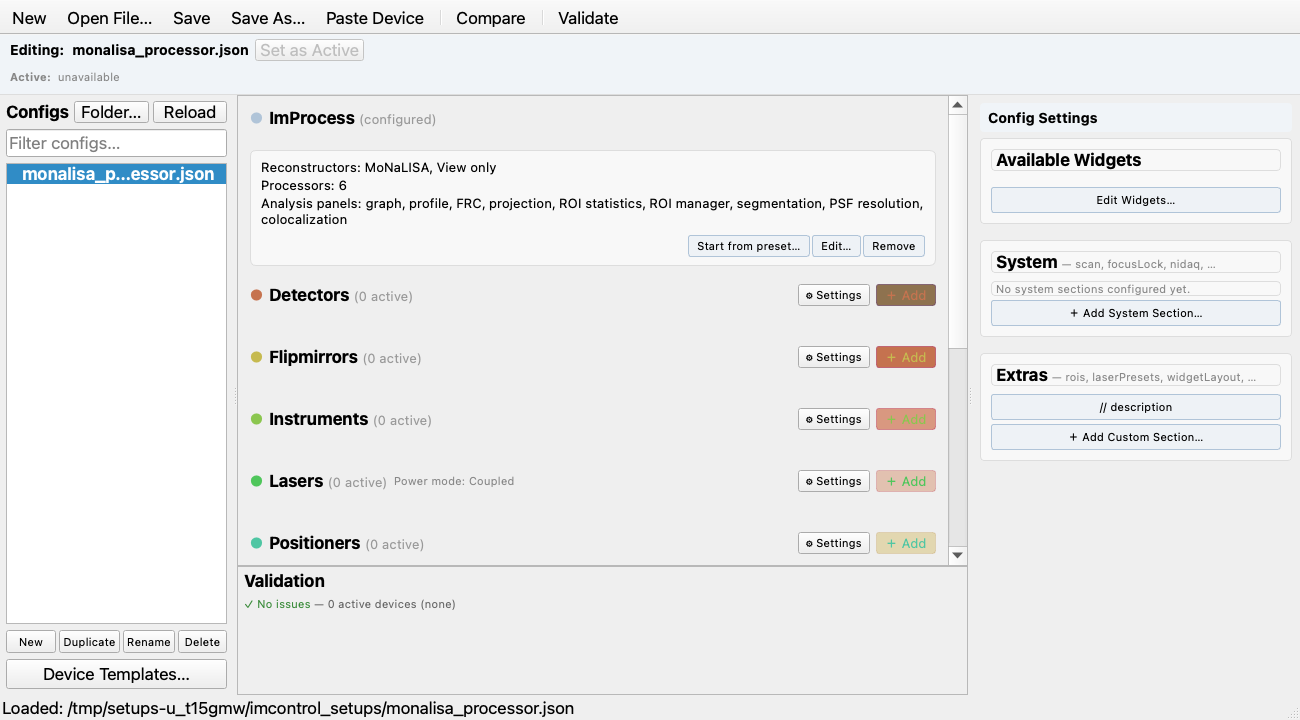
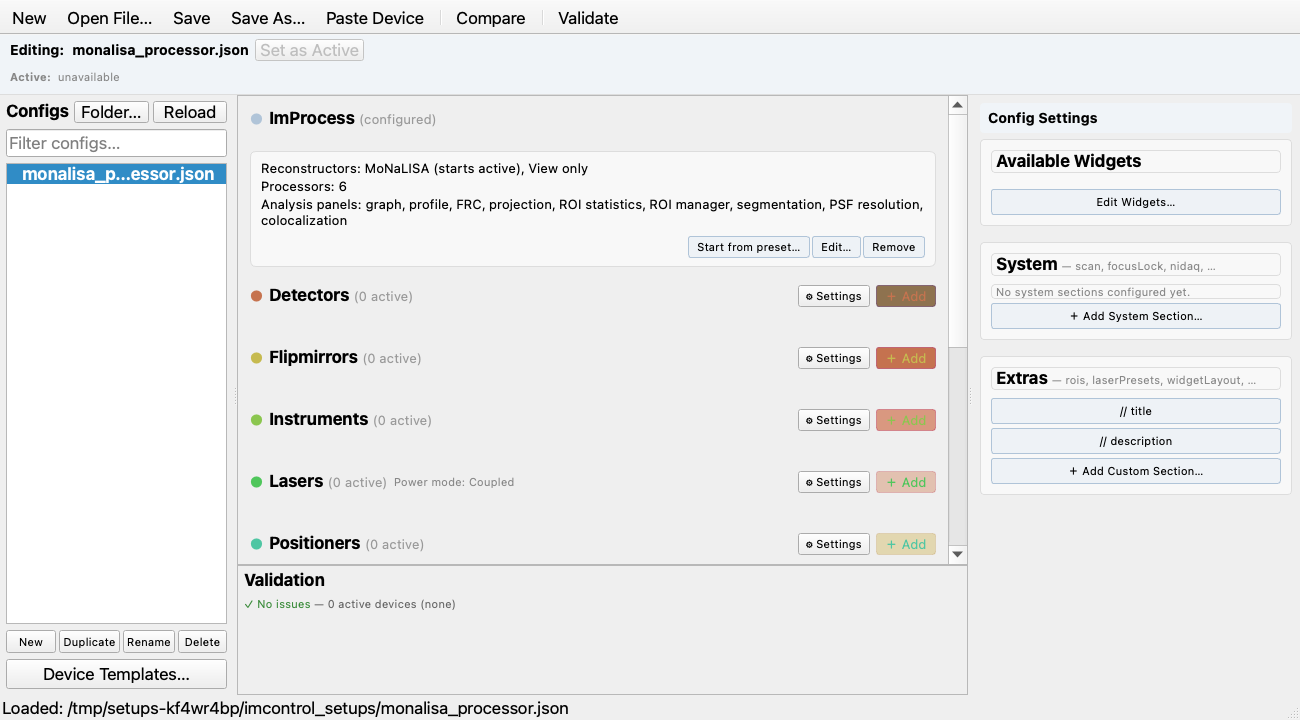
docs: the reconstructor ImProcess starts with, how a setup becomes a preset, and a docs audit
Documents the Starts with combo, the order rule (ImProcess opens on the first
reconstructor listed), the starts-active marking on the card and in the
preset picker, and how a processor-only setup becomes one of the ten presets
(including tools/update_user_defaults_history.py). The audit also fixes: the
changelog's two ImProcess entries merged into one, the System-section tab
order and the required keys of autofocus and microscopeStand, the napari
endpoints' stale "Plugins page", and the reconstructors reference row. The
dialog, canvas and preset-picker screenshots are regenerated.

diff --git a/docs/changelog.rst b/docs/changelog.rst
@@ -25,11 +25,11 @@ Unreleased
   Apply refuses until you fill them in.  The ``focusLock`` and ``autofocus``
   **Update freq** was labelled milliseconds while the code reads hertz, and
   the tiling **Default pattern** was a free-text box; it is a drop-down now.
-  Separately, a ``reconstructors`` or ``processors`` list naming an id that is not here (a
-  drop-in plugin that lives on another computer, a typo) raised a ``KeyError``
-  and ImProcess did not open; the id is now skipped with one logged warning,
-  ImProcess starts with the rest, and if none of the listed reconstructors is
-  known it registers ``view-only``.  A setup that lists only ``processors``
+  Separately, a ``reconstructors`` or ``processors`` list naming an id that
+  is not here (a drop-in plugin that lives on another computer, a typo) raised
+  a ``KeyError`` and ImProcess did not open; the id is now skipped with one
+  logged warning, ImProcess starts with the rest, and if none of the listed
+  reconstructors is known it registers ``view-only``.  A setup that lists only ``processors``
   now gets ``view-only`` (not ``monalisa``) as its reconstructor, the same as
   with no block at all.
 
@@ -49,8 +49,7 @@ Unreleased
 
 **New Features**
 
-- **ImProcess settings in the config editor.** The setup file's ``processing`` block is now a section of its own on the editor's canvas, always shown and first for a processor-only setup, with a summary card and **Configure…** / **Edit…**, **Start from preset…** and **Remove**.  The dialog has one page per group of options (Reconstructors, Processors, Startup layout, Analysis panels, Localization viewer, Live mode, napari plugins), every option with its explanation in plain view, a read-only **Drop-in plugins** page with a **Rescan** button, a **Custom** page that keeps the keys the editor does not know, and a **Set on this computer** page that says where the Fiji location, the image display and the default folders are set (they are per computer, in ``improcess_options.json``, not in the setup).  **Start from preset…** copies the block of one of the shipped processor-only setups.  Every key ImProcess reads is offered, including ``liveStallTimeoutS``, ``liveViewerUpdateIntervalS``, ``live_display_in_imcontrol`` and the napari endpoints (a JSON box that is checked when you apply); the validation panel flags an unknown plugin id as an error and a drop-in id listed in the setup as a warning.  The key reference is in the setup reference's ``processing`` section (:ref:`config-editor-improcess`).
-- **ImProcess dialog in the config editor: reconstructors and processors first, and a readable preset picker.** The reconstructors and the processors, the main components of ImProcess, are now the dialog's first two pages (it opens on Reconstructors) instead of one **Plugins** page; **Drop-in plugins** follows them and the napari endpoints have a **napari plugins** page.  Every option is a row with its name, its id muted and a one-line description from the registry.  **Start from preset…** lists the shipped setups by title and, for the selected one, says what it is for, which reconstructors and processors it registers by name, what opens and what is hidden at startup, instead of printing its JSON.  Five more processor-only presets ship: ``smlm_processor``, ``bead_psf_processor``, ``restoration_processor``, ``timelapse_processor`` and ``tiling_mosaic_processor``; the five existing ones gained a ``// title`` and a shorter description.  Changing the set of shipped defaults is picked up by the existing user-defaults sync, so an unedited copy in ``ImSwitchConfig`` is replaced and an edited one is kept.
+- **ImProcess settings in the config editor, with a choice of the reconstructor it starts with and a readable preset picker.** The setup file's ``processing`` block is now a section of its own on the editor's canvas, always shown and first for a processor-only setup, with a summary card (the reconstructors by name, the first marked *starts active*) and **Configure…** / **Edit…**, **Start from preset…** and **Remove**.  The dialog opens on its two main components, **Reconstructors** and **Processors**, each option a row with its name, its id muted and a one-line description from the registry; then come **Drop-in plugins** (read-only, with a **Rescan** button), **Startup layout**, **Analysis panels**, **Localization viewer**, **Live mode**, **napari plugins**, **Custom** (keeps the keys the editor does not know) and **Set on this computer** (says where the Fiji location, the image display and the default folders are set: they are per computer, in ``improcess_options.json``, not in the setup).  Every key ImProcess reads is offered, including ``liveStallTimeoutS``, ``liveViewerUpdateIntervalS``, ``live_display_in_imcontrol`` and the napari endpoints (a JSON box that is checked when you apply), and the validation panel flags an unknown plugin id as an error and a drop-in id listed in the setup as a warning.  **Starts with**, above the reconstructor rows, chooses the reconstruction ImProcess has selected when it opens; ImProcess opens on the first reconstructor the setup lists, so the editor writes the chosen one first, ticking another keeps the file's order and adds it after, and there is no new setup key.  **Start from preset…** lists the ten shipped processor-only setups by title and, for the selected one, says what it is for, which reconstructors (the first marked *starts active*) and processors it registers by name, what opens and what stays hidden at startup, instead of printing its JSON, and **Use preset** copies its block.  Five of the ten are new (``smlm_processor``, ``bead_psf_processor``, ``restoration_processor``, ``timelapse_processor`` and ``tiling_mosaic_processor``); the five existing ones gained a ``// title`` and a shorter description.  The unedited copies of the changed presets in ``ImSwitchConfig`` are replaced by the existing user-defaults sync and edited ones are kept.  The key reference is in the setup reference's ``processing`` section (:ref:`config-editor-improcess`).
 - **Device reconnect 2.0: reconnectable by default, and no silent stand-ins.** Reconnecting a device in **Hardware → Hardware status** used to be refused whenever that device shared its serial port with another — the usual rig case — and worked only for the twelve managers that had written their own reconnect. Now a reconnect of any device on a port that can be reopened in place (``RS232Manager``, and the ESP32 / GRBL / SQUID port managers) reopens the port once and re-initialises every device on it, in order, each ending in its safe state, verified (lasers dark, shutters closed), and names any device that did not come back. Devices on such a port need no reconnect code of their own; MPB and AA AOTF repeat their startup exchange after one (they used to stay silent forever once startup had failed, because a "mock forever" flag was set once and never cleared). Managers that open their own driver do so through a *backend holder* (``_installBackend``) and get reconnect — and connect / disconnect for a device declared ``transient`` — from one template; Kinesis stages and rotators, Standa mounts, the Teensy pulse generator and the ThorCam, Photometrics, Allied Vision and PiCam cameras are on it. The rule behind it: **a device's mode comes from the setup file and never changes at runtime.** A real device that cannot be opened is left *not connected* — the error in Hardware status, its panel row greyed with the reason, every command refused with ``DeviceNotConnectedError``, scans and recordings refusing it by name — instead of being quietly replaced by a simulation that accepts commands; ``useMockOnFailure: true`` keeps the old fallback per device, and the configured mocks (``Mock*Manager``, ``MOCK_`` serials, ``simulation: true``, the hardware-free setups) are untouched. The one exception is cameras, which keep a mock until reconnected, because a detector needs its sensor size at construction and only the camera knows it. ``transient`` / ``connectOnStartup`` can now be set on any device, not only instruments. A **Check** button beside Reconnect asks a device whether it is still there without replacing anything (a cheap identity query; MPB, Kinesis, Standa, ThorCam, Teensy, CoolLED, Cobolt), and is allowed during a scan. The Positioner panel now refreshes a reconnected stage like every other panel. Design, inventory and what is still bespoke: ``docs/design/plans/device-reconnect-2.0.md``.
 - **COMET drift correction** for SMLM localization results, as the ``smlm-drift-comet`` processor over the optional ``comet-smlm`` package (``pip install comet-smlm``, or the ``comet`` extra). COMET estimates one drift vector per time window by maximising the overlap of every pair of localizations across windows and interpolates the windows to a per-frame curve that it subtracts from x, y *and z*; the built-in ``smlm-drift`` stays as the quick lateral-only cross-correlation that needs nothing installed. It runs on an NVIDIA GPU (numba-cuda), PyTorch (COMET's own ``[torch]`` extra) or a numba-compiled CPU kernel, and ``auto`` takes the fastest COMET finds; a named backend that is not available is refused with the ones that are. The panel asks for the window (500 localizations per window by default; frames per window and a window count are the other modes), the largest drift expected and the backend; the kernel width the refinement stops at is fixed at 10 nm, the initial width stays COMET's rule (a third of the maximum drift) and the other ``comet_run_kd`` settings stay at COMET's defaults. The panel's button first says **Estimate pairs** and runs only COMET's own safety check, the exact number of pairs within the maximum drift, with a warning above 500 million (slow, may run out of memory); then it says **Run COMET**, and that run streams the windows, the pairs found, each optimizer step and every 25th evaluation as it goes (a workflow runs in one go, ``stage: run``). **Cancel** lands at COMET's next progress report and leaves the input untouched. The result is the same drift-corrected localization result the built-in correction produces (its drift trace gains a Z series on a 3D table), with the backend, window and pair counts, accepted kernel width, timings and package version in its metadata. The package is looked for the moment the panel opens: without it the panel says so, shows the install line, keeps its controls and Run off and offers **Check again** for after a ``pip install`` in the running session; a workflow step is refused before it starts and a headless run fails with the same message. See :ref:`improcess-comet-drift`.
 - **SMLM filter by any property, histogram-guided.** The ``smlm-filter`` panel now offers the properties the current table has values in (frame, position, PSF sigmas, photons, precisions), draws the chosen one's histogram, and places a band on it with two spin boxes that are also the shaded region's draggable edges; *Mode* keeps the localizations inside the band (band-pass) or drops them (band-stop), a count line says what the band keeps before anything runs, and **Apply filter** publishes the filtered table, which the panel then follows so a second property is filtered by applying again. A *Copy* box, on by default, decides where the table goes: the first filter makes a new result, the box then turns itself off and the following filters replace that copy in place rather than leaving one result per step (it turns back on when another result is selected); the generic processor panel gained the in-place publication path for this (``sigResultReplaced``). The parameter contract is ``property``/``mode``/``lower``/``upper`` (``params_version`` 2); a recorded run of the old photons/sigma/frame form that bounded one property replays, one that bounded several is refused with the way to say it now. The histogram's bins are derived from the data instead of a fixed count (the narrower of the Freedman-Diaconis and Sturges rules, limited to the pixels the plot has, and one bin per number for a whole-number column such as the frame), and a band-stop with neither threshold set is refused instead of silently returning an empty table.

diff --git a/docs/imcontrol-setups.rst b/docs/imcontrol-setups.rst
@@ -101,9 +101,10 @@ ImProcess block has its own place on the canvas
 as raw JSON.
 
 The dialog has one tab per group of options, each option with its explanation
-as a tooltip.  ``focusLock`` has the tabs Basic, Devices, Crop, Control and
-Reacquire; ``tiling`` has Basic, Devices, Acquisition, Saving and Mosaic.
-Choices the code defines are drop-downs: the tiling **Default pattern**
+as a tooltip.  ``focusLock`` has the tabs Devices, Basic, Crop, Control and
+Reacquire; ``autofocus`` has Devices, Basic, Crop and Advanced; ``tiling`` has
+Devices, Basic, Acquisition, Saving and Mosaic; ``scan`` has Basic, Designers
+and DAQ clocks; ``teensyPulse`` has Basic and Advanced.  Choices the code defines are drop-downs: the tiling **Default pattern**
 (spiral or serpentine), **Mode** and **Save format**, for example.  Rates are
 in the unit the code reads: the ``focusLock`` and ``autofocus`` **Update
 freq** is in hertz.
@@ -125,9 +126,11 @@ A key is *needed by the loader* when leaving it out makes the setup loader
 fail, or warn that it defaulted the value to ``null``.  Those keys are marked
 with a bold label and an asterisk.  ``focusLock`` needs ``camera``,
 ``positioner``, ``updateFreq``, the four crop values, ``piKp`` and ``piKi``;
-``scan`` needs the widget type, both designers and their parameter dicts
-(``{}`` for none) and the sample rate; ``tiling`` needs ``xyPositioner``;
-``triggerScope`` needs ``rs232device``.  ``nidaq``, ``etSTED``,
+``autofocus`` needs the same camera, positioner, update frequency and four
+crop values (no PI gains); ``scan`` needs the widget type, both designers and
+their parameter dicts (``{}`` for none) and the sample rate; ``tiling`` needs
+``xyPositioner``; ``triggerScope`` needs ``rs232device``; ``microscopeStand``
+needs ``managerName`` and ``rs232device``.  ``nidaq``, ``etSTED``,
 ``teensyPulse``, ``pyroServerInfo`` and ``pulseStreamer`` need nothing.
 
 Keys the editor has no field for stay on the **Custom** tab and are written
@@ -154,13 +157,14 @@ settings) has its own section on the editor's centre canvas, headed
 **ImProcess**.  It is always shown, below the device categories, and first
 for a setup with no devices at all, such as the processor-only presets.  The
 card under the heading says what the block does: the reconstructors by name,
-how many processors, which analysis panels open, any live-mode setting that
-differs from its default and how many keys the editor has no field for.  With
-no ``processing`` block it says which standalone defaults ImProcess then
-uses.
+with the first marked as the one that starts active (``Reconstructors:
+MoNaLISA (starts active), View only``), how many processors, which analysis
+panels open, any live-mode setting that differs from its default and how many
+keys the editor has no field for.  With no ``processing`` block it says which
+standalone defaults ImProcess then uses.
 
 .. image:: ./images/config-editor-improcess-canvas.png
-   :alt: The config editor with the ImProcess section on the canvas, showing its summary card and the Start from preset, Edit and Remove buttons
+   :alt: The config editor with the ImProcess section on the canvas, showing its summary card (the first reconstructor marked starts active) and the Start from preset, Edit and Remove buttons
    :align: center
 
 The card has three buttons:
@@ -172,15 +176,18 @@ The card has three buttons:
   read in words and not as JSON: its reconstructors and processors by name
   (the reconstructors with their one-line descriptions, the processors under
   their categories), what **Opens at startup**, what is **Hidden at startup**
-  and any **Other settings**.  A part the preset leaves at its default is not
-  mentioned.  **Use preset** copies the chosen block into this setup
+  and any **Other settings**.  The first reconstructor is marked *starts
+  active*, as on the card.  A part the preset leaves at its default is not
+  mentioned.  Ten presets ship, listed with their titles in
+  :ref:`improcess-processing-presets`, which also says how a setup file
+  becomes one.  **Use preset** copies the chosen block into this setup
   (:ref:`improcess-processing-presets`); the preset file itself is not
   changed.  If the setup already has a block you are asked before it is
   replaced.  The dialog has the same button, which replaces what the dialog
   shows; nothing is written until you press **Apply**.
 
   .. image:: ./images/config-editor-improcess-presets.png
-     :alt: The Start from preset window with the MoNaLISA reconstruction preset selected: its description, its reconstructors with their descriptions, its processors by category and the panels it opens
+     :alt: The Start from preset window with the MoNaLISA reconstruction preset selected: its description, its reconstructors with their descriptions and the first marked starts active, its processors by category and the panels it opens
      :align: center
 * **Remove** deletes the ``processing`` block from the setup, after asking.
 
@@ -190,12 +197,21 @@ other group of options is a page after them, each option with its
 one-sentence explanation under it, and three pages are not options:
 
 .. image:: ./images/config-editor-improcess-dialog.png
-   :alt: The ImProcess dialog on its Reconstructors page, each reconstructor with its name, its id and a one-line description
+   :alt: The ImProcess dialog on its Reconstructors page: the Starts with choice above the rows, each reconstructor with its name, its id and a one-line description
    :align: center
 
 * **Reconstructors**: the built-in reconstructors to register, one row each
-  with its name, its id (muted) and a one-line description.  The first listed
-  is the initial one; at least one is required.
+  with its name, its id (muted) and a one-line description; at least one is
+  required.  Above the rows, **Starts with** chooses the reconstructor ImProcess
+  has selected when it opens; the others stay available in the Parameters
+  dock's picker.  The combo lists the ticked reconstructors by name and
+  follows the ticks: ticking one adds it at the end, unticking removes it, and
+  when the chosen one is unticked the first remaining one is chosen.  There is
+  no setting for the choice: ImProcess opens on the **first reconstructor the
+  setup lists**, so the editor writes the chosen one first.  Ticking another
+  one keeps the order the file had and adds the new one after it; nothing is
+  reordered until you tick, untick or choose.  An id the file has that this
+  computer does not (listed under *Not known here*) can be chosen too.
 * **Processors**: the built-in processors to register, in the same rows,
   grouped under their categories.  An id in the file that this computer does
   not know is listed under *Not known here (kept as written)* and kept.

diff --git a/docs/improcess.rst b/docs/improcess.rst
@@ -2358,6 +2358,8 @@ that moves it, so the line in the log is the line to act on. Saving is
 refused while a recording runs: every queue check reads the limit in force,
 so a smaller queue would fail the recording in progress.
 
+.. _improcess-config-schema:
+
 Config schema
 =============
 
@@ -2406,6 +2408,16 @@ default for the other side: an omitted ``reconstructors`` key is
 exactly as when the whole block is absent. Use an explicit empty list when that
 side should load nothing (for processors; the config editor's check asks for at
 least one reconstructor).
+
+**The reconstructor ImProcess starts with is the first one listed.**  The
+reconstructors are registered in the order of the ``reconstructors`` list, the
+registry keeps that order, ImProcess makes the first registered one the active
+reconstructor at startup, and the Parameters-dock picker opens on it; the others
+stay available in the picker.  So ``["monalisa", "view-only"]`` opens on
+MoNaLISA and ``["view-only", "monalisa"]`` on View only.  An unknown first id is
+skipped (see below), so the first one this computer has starts.  There is no
+separate key for this; the config editor's **Starts with** choice
+(:ref:`config-editor-improcess`) writes the chosen reconstructor first.
 
 Of the built-ins, only the IDs you list are instantiated during initial
 registry setup; drop-in plugins from the plugins folder are always
@@ -2486,15 +2498,24 @@ what the config editor's picker shows, and a one-paragraph description:
      - WidefieldSTARSS H/V-pair analysis
 
 A preset selects ids and switches only: no numeric setting, so a number always
-comes from a processor's own default or from you.  To use one as a stand-alone
-setup, also set ``enabled`` to ``["improcess"]`` in ``modules.json``.
+comes from a processor's own default or from you.  The first reconstructor of
+each preset is the one ImProcess starts with (see `Config schema`_).  To use one
+as a stand-alone setup, also set ``enabled`` to ``["improcess"]`` in
+``modules.json``.
 
 The config editor's **Start from preset…** button (see
 :ref:`config-editor-improcess`) offers exactly the shipped setups that contain
 only a ``processing`` block, ignoring comment keys (``//`` ...) and reserved
 keys (``__`` ...): a setup file is a preset because of what it holds, not
 because it is on a list, so a new processor-only setup shows up by being added
-to the package data.  It reads them from the package, never from your
+to the package data.  To add a preset, put a JSON file whose only key is
+``processing`` into that folder, give it a ``"// title"`` (the name the picker
+lists; the file name is used without one) and a ``"// description"`` (what it is
+for, in a sentence or two) and list the reconstructor it should start with first.
+Add a row to the table above and a line to the folder's ``README.txt``.  The
+file is a shipped default, so run ``python tools/update_user_defaults_history.py``
+and commit the result, or the user-defaults sync test fails.  One test names
+today's ten presets, so a new one is a deliberate edit there.  It reads them from the package, never from your
 ``ImSwitchConfig`` copy, lists them by their ``// title``, and shows the
 selected one's ``// description`` and what its block sets, read in words and
 not as JSON (:ref:`config-editor-improcess`); **Use preset** copies the block into the setup you are
@@ -2552,7 +2573,7 @@ The ``processing:`` block also accepts:
 * **napariEndpoints** (list of objects, default none) — napari plugin adapters
   that results can be sent to, each entry with at least an ``id``; see
   :doc:`improcess-napari-plugins`.  The config editor edits the list on its
-  Plugins page and checks each entry.
+  napari plugins page and checks each entry.
 * **napariStormViewer** (bool, default ``false``) — draw localization results
   as GPU point clouds through the optional napari-storm package instead of
   their histogram preview.  Needs the ``storm`` extra; without it the key has

diff --git a/docs/setupinfo-reference.rst b/docs/setupinfo-reference.rst
@@ -1119,7 +1119,7 @@ data and save folders) are not part of this block; they are kept in
 
 .. rubric:: Reconstructors
 
-Which reconstructors ImProcess registers; see :ref:`improcess-processing-presets` for how the list is read.
+Which reconstructors ImProcess registers, and which one it starts with; see :ref:`improcess-config-schema` for how the list is read.
 
 .. list-table::
    :header-rows: 1
@@ -1132,7 +1132,7 @@ Which reconstructors ImProcess registers; see :ref:`improcess-processing-presets
    * - ``reconstructors``
      - list of ids
      - ``["view-only"]``
-     - The built-in reconstructors to register; the first is the initial one.  Ids this computer does not have are skipped at startup with a warning, and if none is known ``view-only`` is registered.  Drop-in plugins are active on their own and should not be listed.
+     - The built-in reconstructors to register.  The first one listed is the one ImProcess has selected at startup (its Parameters-dock picker opens on it; the others stay in the picker); the config editor's **Starts with** choice writes it first.  Ids this computer does not have are skipped at startup with a warning, and if none is known ``view-only`` is registered.  Drop-in plugins are active on their own and should not be listed.
 
 .. rubric:: Processors
 

diff --git a/imswitch/improcess/README.md b/imswitch/improcess/README.md
@@ -584,8 +584,11 @@ Rules:
   startup with one warning each that lists the available IDs; if no configured
   reconstructor is known, the standalone default is registered instead. The
   `register_default_*` functions themselves stay strict (`KeyError`). Explicit
-  list order is preserved, so
-  the first configured reconstructor is the initial active reconstructor. This
+  list order is preserved, so the first configured reconstructor this computer
+  has is the one active at startup (the registry keeps registration order,
+  `ReconstructorManagerController._select_reconstructor` takes the first, and
+  the Parameters-dock picker opens on it). There is no separate key: the config
+  editor's "Starts with" combo writes the chosen reconstructor first. This
   is the initial registry population; runtime-loaded tools and registry-backed
   startup panels may register their required processor later.
 - **Panel flags.** Each `is_*_panel_enabled()` getter reads its boolean key and
